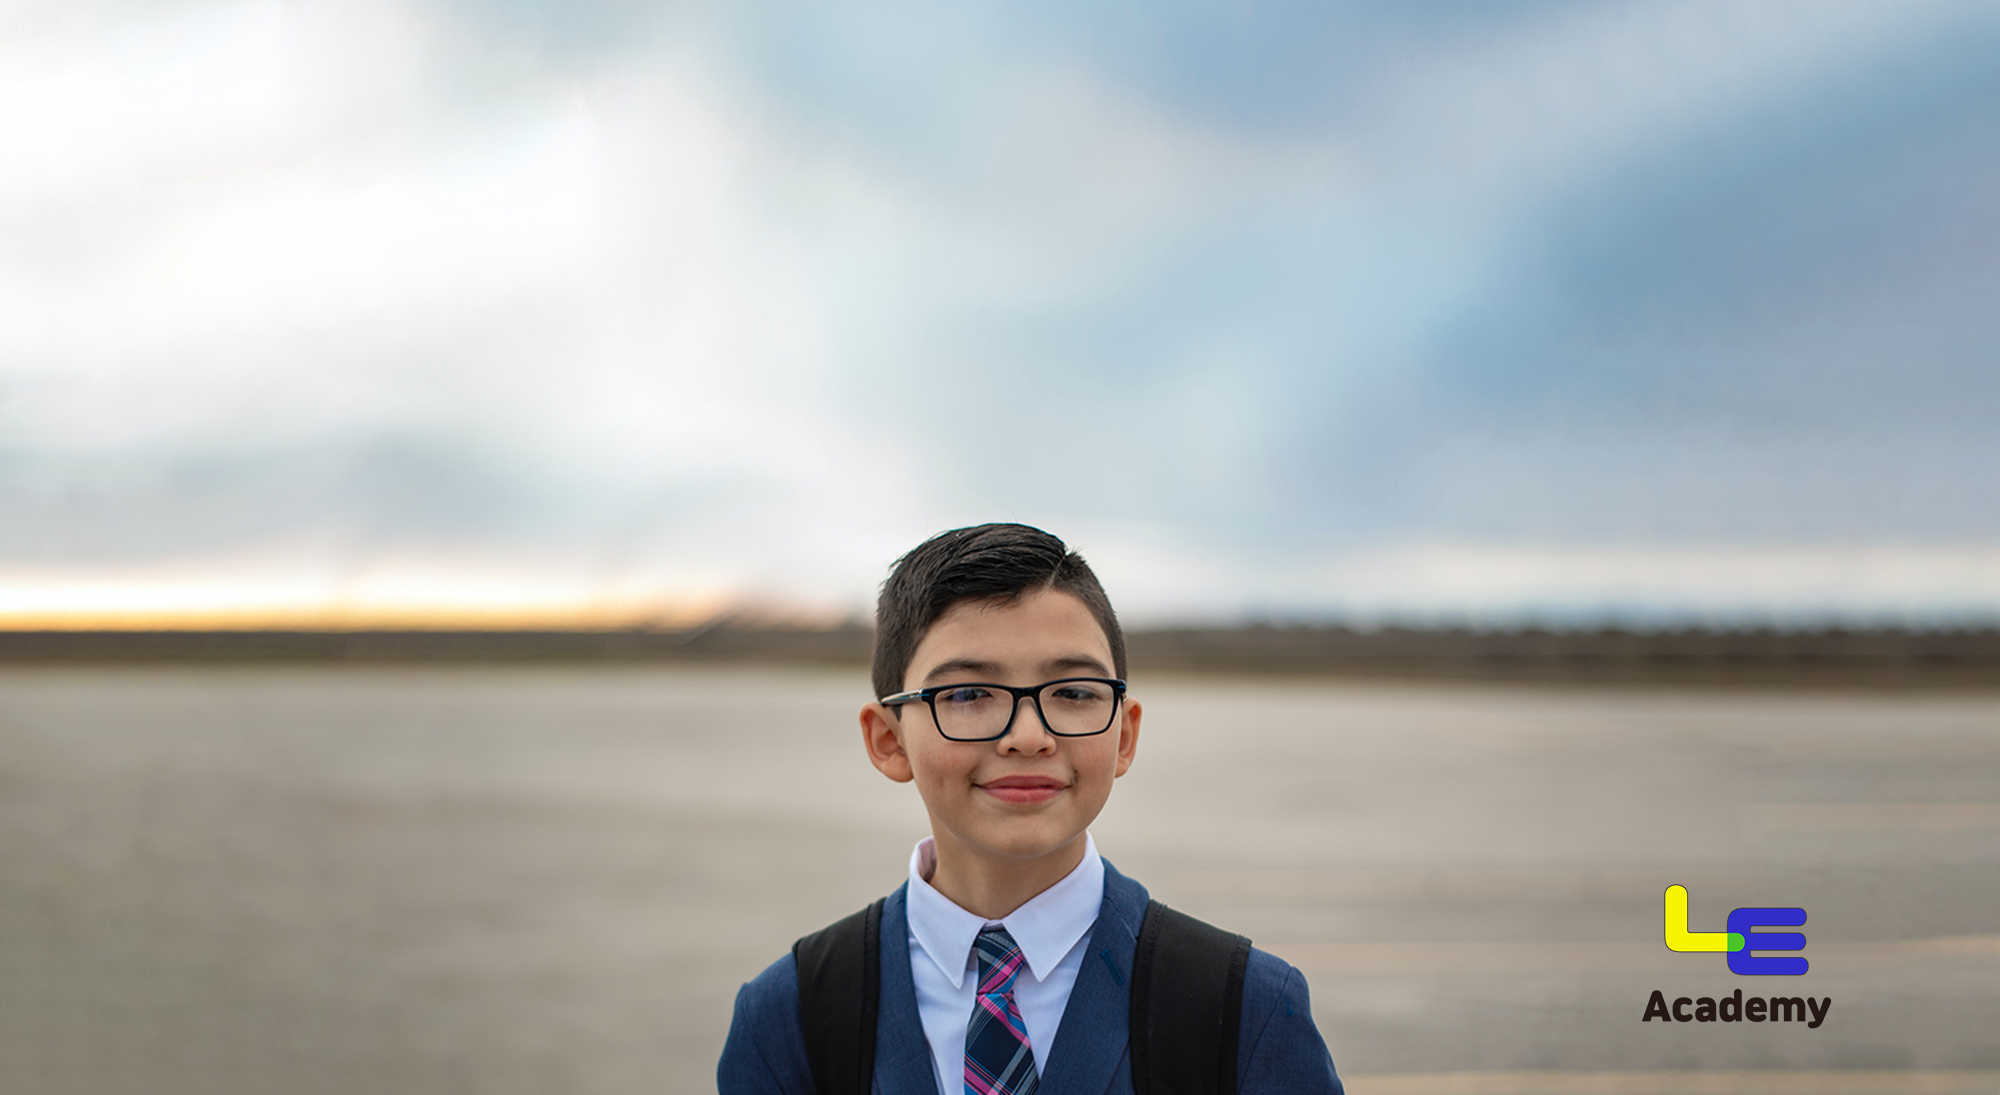
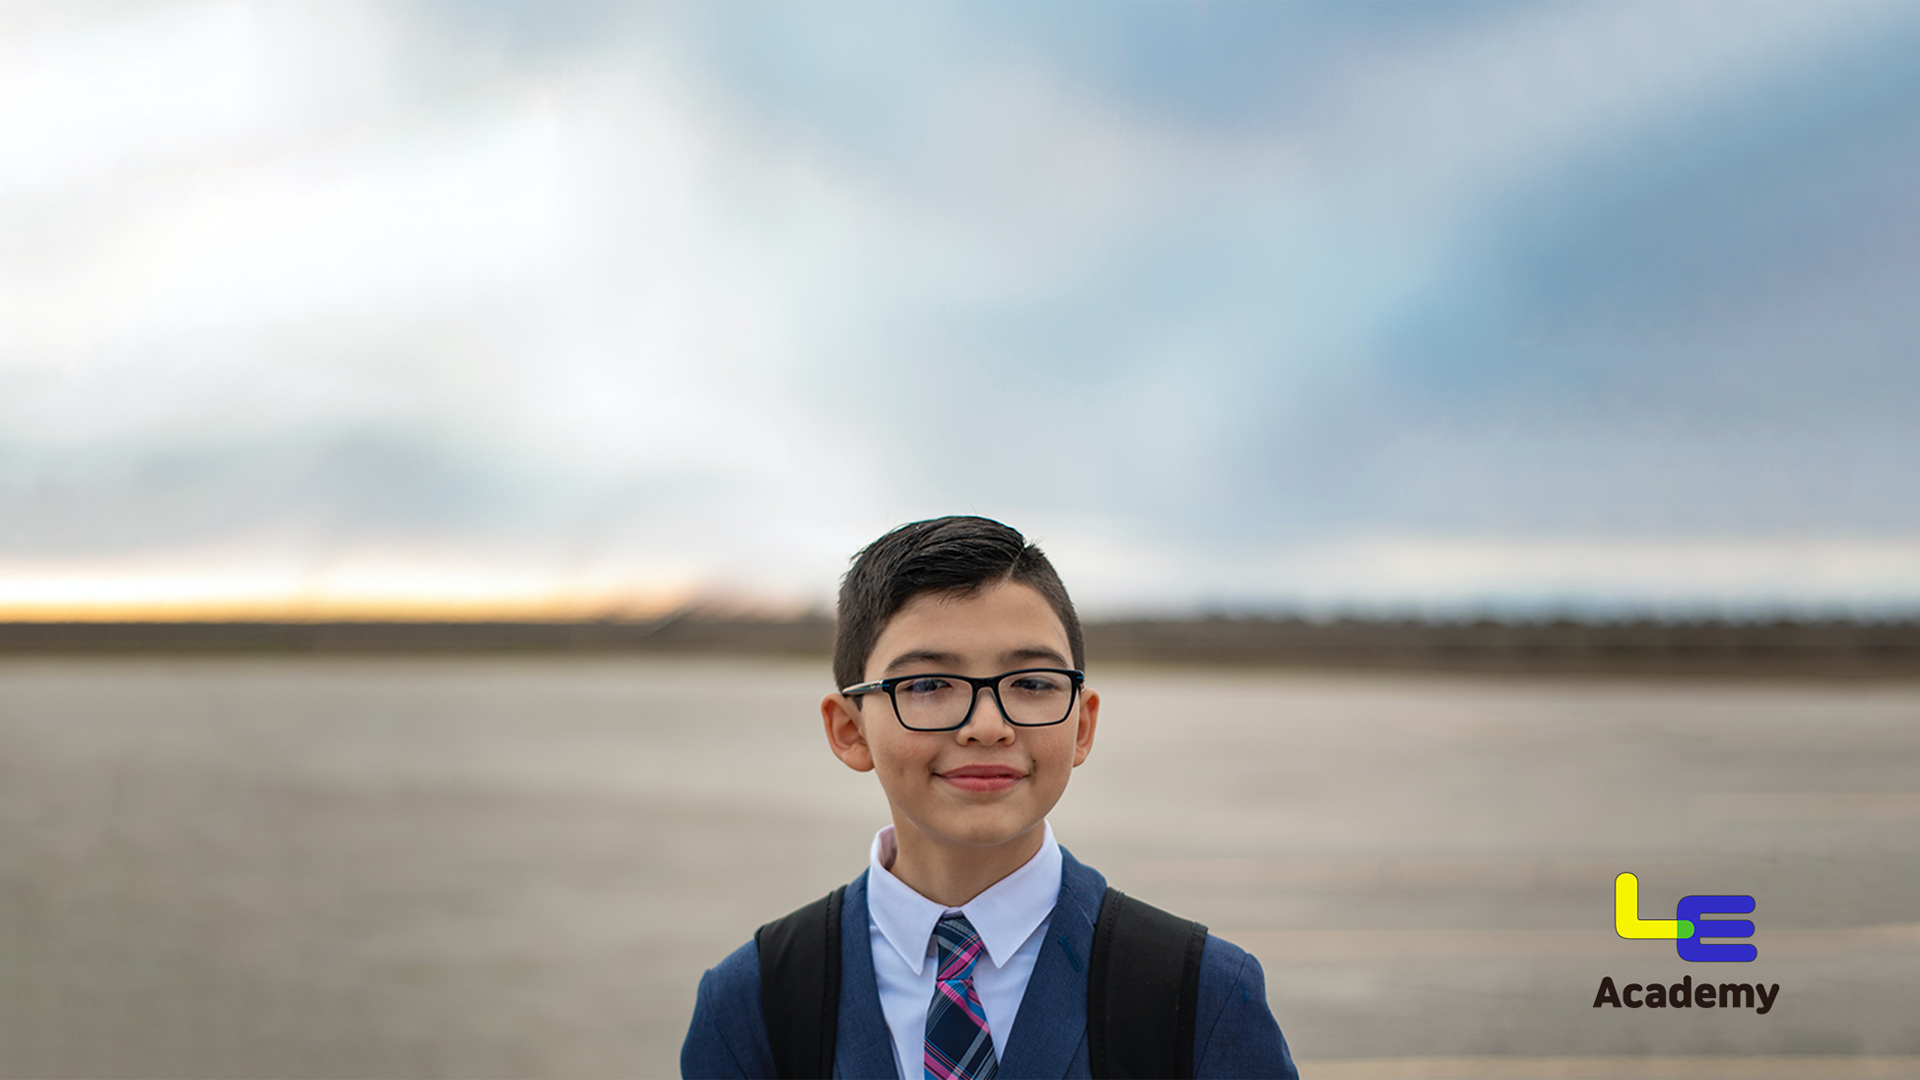
recentrly

diff --git a/index.html b/index.html
@@ -20,16 +20,16 @@
 </head>
 <body>
  <header>
-     <div class="container-fluid bg-white">
+     <div class="container-fluid bg-white fixed-top">
        <div class="row pt-3 pb-3">
            
            <div class="col-3 text-center logo">
-            <a href="#"><img src="img/logo.png" alt="logo"></a>
+            <a href="#">뉴탑학원</a>
            </div>
            <div class="col-7 menu">
                <ul class="col-12 d-flex">
-                   <li class="col-4 text-center"><a href="#">홈</a></li>
                    <li class="col-4 text-center"><a href="#">학원소개</a></li>
+                   <li class="col-4 text-center"><a href="#">오시는길</a></li>
                    <li class="col-4 text-center"><a href="#">문의하기</a></li>
                </ul>
            </div>
@@ -41,8 +41,9 @@
  <div class="container-fluid m-0 g-0">
      <div class="row">
          <div class="col-12 main-sec">
-             <img src="img/banner.png" alt="banner">
-             <div class="text-img d-flex justify-content-center align-items-center">
+            <div class="back-img"></div>
+             <!-- <img src="img/banner.png" alt="banner"> -->
+             <div class="text-img d-flex">
                  <img src="img/11.png" alt="text1">
                  <img src="img/22.png" alt="text2">
              </div>

diff --git a/css/style.css b/css/style.css
@@ -22,20 +22,25 @@ a{
 
 /* header */
 .logo{
-    height: 76px;
+    height: 50px;
 }
-.logo a img {
-    width: 13%;
-    margin: 10px 0;
+.logo a{
+    font-family: 'Pretendard-Regular';
+    font-size: 1.3rem;
+    line-height: 50px;
+    display: block; 
 }
 .menu ul li a {
     font-family: 'Pretendard-Regular';
     font-size: 1.3rem;
-    line-height: 76px;
+    line-height: 50px;
     display: block;
 }
 .menu ul li:hover {
     color: blue;
+}
+.pd-none{
+    padding-bottom: 0 !important;
 }
 
 
@@ -43,15 +48,26 @@ a{
 
 /* section 01 */
 .main-sec{
+    width: 100%;
     position: relative;
 }
-.main-sec  img{
-    width: 100%;
+.back-img{
+    background-image: url(../img/banner.png);
+    background-size: cover;
+    background-repeat: no-repeat;
+    background-position: center;
     position: absolute;
+    height: 100vh;
+}
+.main-sec{
+    width: 100%;
+    position: relative;
     z-index: -99;
 }
 .text-img{
     position: absolute;
     flex-direction: column;
     z-index: 999;
+   right: -50%;
+   top: -50%;
 }
